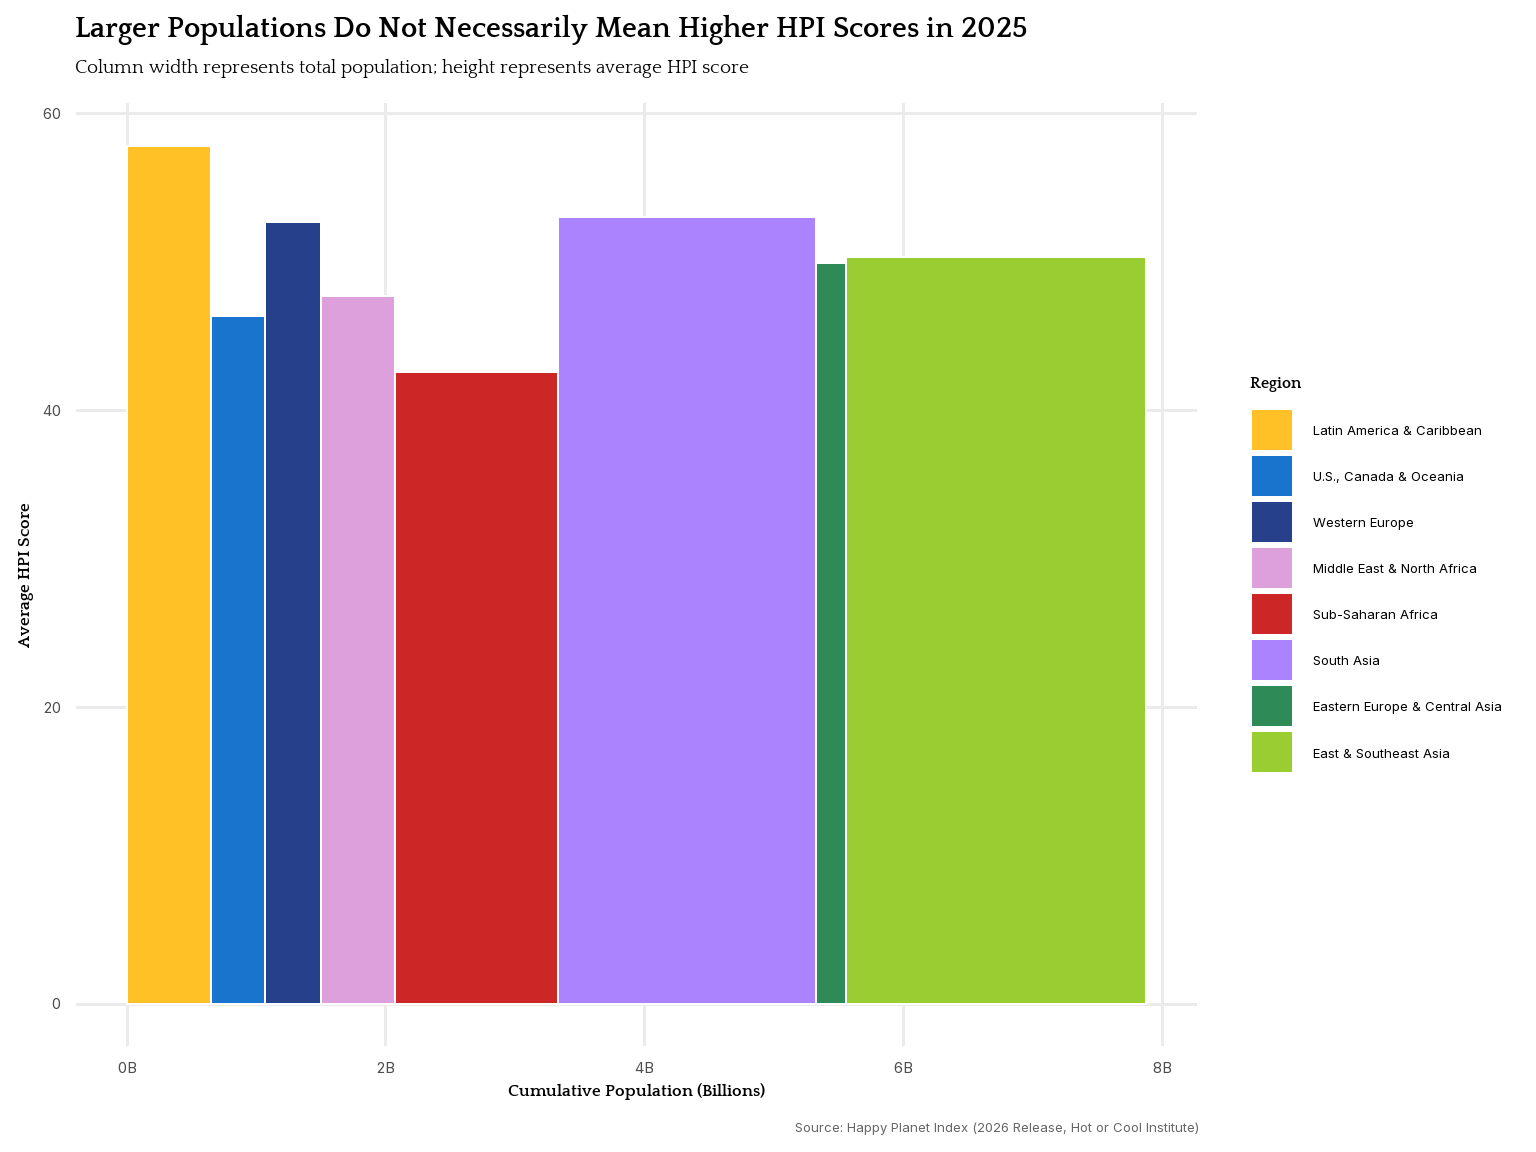
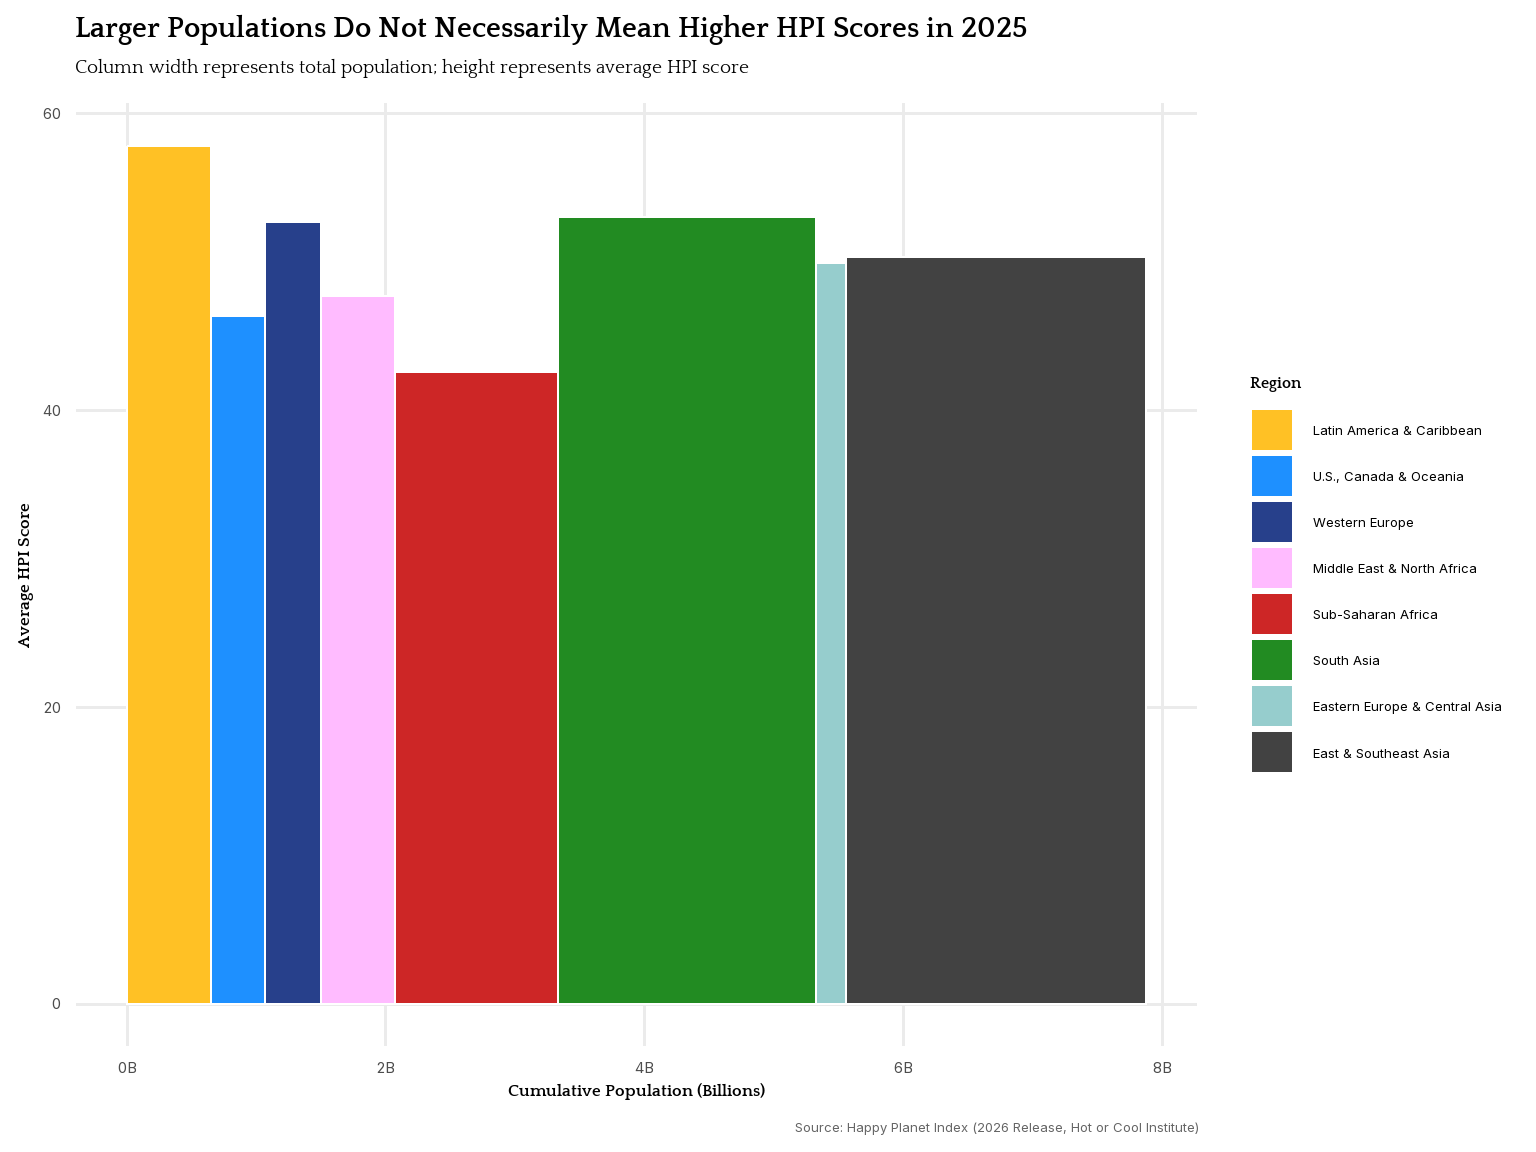
just changed colors

diff --git a/index.html b/index.html
@@ -195,23 +195,23 @@ Show R code
 <h2 class="anchored" data-anchor-id="chart-2-table-with-embedded-charts">Chart 2 — Table with Embedded Charts</h2>
 <div class="cell">
 <div class="cell-output-display">
-<div id="jyxaphsfdx" style="padding-left:0px;padding-right:0px;padding-top:10px;padding-bottom:10px;overflow-x:auto;overflow-y:auto;width:auto;height:auto;">
-<style>#jyxaphsfdx table {
+<div id="hizjpajzyr" style="padding-left:0px;padding-right:0px;padding-top:10px;padding-bottom:10px;overflow-x:auto;overflow-y:auto;width:auto;height:auto;">
+<style>#hizjpajzyr table {
   font-family: system-ui, 'Segoe UI', Roboto, Helvetica, Arial, sans-serif, 'Apple Color Emoji', 'Segoe UI Emoji', 'Segoe UI Symbol', 'Noto Color Emoji';
   -webkit-font-smoothing: antialiased;
   -moz-osx-font-smoothing: grayscale;
 }
 
-#jyxaphsfdx thead, #jyxaphsfdx tbody, #jyxaphsfdx tfoot, #jyxaphsfdx tr, #jyxaphsfdx td, #jyxaphsfdx th {
+#hizjpajzyr thead, #hizjpajzyr tbody, #hizjpajzyr tfoot, #hizjpajzyr tr, #hizjpajzyr td, #hizjpajzyr th {
   border-style: none;
 }
 
-#jyxaphsfdx p {
+#hizjpajzyr p {
   margin: 0;
   padding: 0;
 }
 
-#jyxaphsfdx .gt_table {
+#hizjpajzyr .gt_table {
   display: table;
   border-collapse: collapse;
   line-height: normal;
@@ -237,12 +237,12 @@ Show R code
   border-left-color: #D3D3D3;
 }
 
-#jyxaphsfdx .gt_caption {
+#hizjpajzyr .gt_caption {
   padding-top: 4px;
   padding-bottom: 4px;
 }
 
-#jyxaphsfdx .gt_title {
+#hizjpajzyr .gt_title {
   color: #333333;
   font-size: 125%;
   font-weight: initial;
@@ -254,7 +254,7 @@ Show R code
   border-bottom-width: 0;
 }
 
-#jyxaphsfdx .gt_subtitle {
+#hizjpajzyr .gt_subtitle {
   color: #333333;
   font-size: 85%;
   font-weight: initial;
@@ -266,7 +266,7 @@ Show R code
   border-top-width: 0;
 }
 
-#jyxaphsfdx .gt_heading {
+#hizjpajzyr .gt_heading {
   background-color: #FFFFFF;
   text-align: center;
   border-bottom-color: #FFFFFF;
@@ -278,13 +278,13 @@ Show R code
   border-right-color: #D3D3D3;
 }
 
-#jyxaphsfdx .gt_bottom_border {
+#hizjpajzyr .gt_bottom_border {
   border-bottom-style: solid;
   border-bottom-width: 2px;
   border-bottom-color: #D3D3D3;
 }
 
-#jyxaphsfdx .gt_col_headings {
+#hizjpajzyr .gt_col_headings {
   border-top-style: solid;
   border-top-width: 2px;
   border-top-color: #D3D3D3;
@@ -299,7 +299,7 @@ Show R code
   border-right-color: #D3D3D3;
 }
 
-#jyxaphsfdx .gt_col_heading {
+#hizjpajzyr .gt_col_heading {
   color: #333333;
   background-color: #FFFFFF;
   font-size: 100%;
@@ -319,7 +319,7 @@ Show R code
   overflow-x: hidden;
 }
 
-#jyxaphsfdx .gt_column_spanner_outer {
+#hizjpajzyr .gt_column_spanner_outer {
   color: #333333;
   background-color: #FFFFFF;
   font-size: 100%;
@@ -331,15 +331,15 @@ Show R code
   padding-right: 4px;
 }
 
-#jyxaphsfdx .gt_column_spanner_outer:first-child {
+#hizjpajzyr .gt_column_spanner_outer:first-child {
   padding-left: 0;
 }
 
-#jyxaphsfdx .gt_column_spanner_outer:last-child {
+#hizjpajzyr .gt_column_spanner_outer:last-child {
   padding-right: 0;
 }
 
-#jyxaphsfdx .gt_column_spanner {
+#hizjpajzyr .gt_column_spanner {
   border-bottom-style: solid;
   border-bottom-width: 2px;
   border-bottom-color: #D3D3D3;
@@ -351,11 +351,11 @@ Show R code
   width: 100%;
 }
 
-#jyxaphsfdx .gt_spanner_row {
+#hizjpajzyr .gt_spanner_row {
   border-bottom-style: hidden;
 }
 
-#jyxaphsfdx .gt_group_heading {
+#hizjpajzyr .gt_group_heading {
   padding-top: 8px;
   padding-bottom: 8px;
   padding-left: 5px;
@@ -381,7 +381,7 @@ Show R code
   text-align: left;
 }
 
-#jyxaphsfdx .gt_empty_group_heading {
+#hizjpajzyr .gt_empty_group_heading {
   padding: 0.5px;
   color: #333333;
   background-color: #FFFFFF;
@@ -396,15 +396,15 @@ Show R code
   vertical-align: middle;
 }
 
-#jyxaphsfdx .gt_from_md > :first-child {
+#hizjpajzyr .gt_from_md > :first-child {
   margin-top: 0;
 }
 
-#jyxaphsfdx .gt_from_md > :last-child {
+#hizjpajzyr .gt_from_md > :last-child {
   margin-bottom: 0;
 }
 
-#jyxaphsfdx .gt_row {
+#hizjpajzyr .gt_row {
   padding-top: 3px;
   padding-bottom: 3px;
   padding-left: 5px;
@@ -423,7 +423,7 @@ Show R code
   overflow-x: hidden;
 }
 
-#jyxaphsfdx .gt_stub {
+#hizjpajzyr .gt_stub {
   color: #333333;
   background-color: #FFFFFF;
   font-size: 100%;
@@ -436,7 +436,7 @@ Show R code
   padding-right: 5px;
 }
 
-#jyxaphsfdx .gt_stub_row_group {
+#hizjpajzyr .gt_stub_row_group {
   color: #333333;
   background-color: #FFFFFF;
   font-size: 100%;
@@ -450,15 +450,15 @@ Show R code
   vertical-align: top;
 }
 
-#jyxaphsfdx .gt_row_group_first td {
+#hizjpajzyr .gt_row_group_first td {
   border-top-width: 2px;
 }
 
-#jyxaphsfdx .gt_row_group_first th {
+#hizjpajzyr .gt_row_group_first th {
   border-top-width: 2px;
 }
 
-#jyxaphsfdx .gt_summary_row {
+#hizjpajzyr .gt_summary_row {
   color: #333333;
   background-color: #FFFFFF;
   text-transform: inherit;
@@ -468,16 +468,16 @@ Show R code
   padding-right: 5px;
 }
 
-#jyxaphsfdx .gt_first_summary_row {
+#hizjpajzyr .gt_first_summary_row {
   border-top-style: solid;
   border-top-color: #D3D3D3;
 }
 
-#jyxaphsfdx .gt_first_summary_row.thick {
+#hizjpajzyr .gt_first_summary_row.thick {
   border-top-width: 2px;
 }
 
-#jyxaphsfdx .gt_last_summary_row {
+#hizjpajzyr .gt_last_summary_row {
   padding-top: 8px;
   padding-bottom: 8px;
   padding-left: 5px;
@@ -487,7 +487,7 @@ Show R code
   border-bottom-color: #D3D3D3;
 }
 
-#jyxaphsfdx .gt_grand_summary_row {
+#hizjpajzyr .gt_grand_summary_row {
   color: #333333;
   background-color: #FFFFFF;
   text-transform: inherit;
@@ -497,7 +497,7 @@ Show R code
   padding-right: 5px;
 }
 
-#jyxaphsfdx .gt_first_grand_summary_row {
+#hizjpajzyr .gt_first_grand_summary_row {
   padding-top: 8px;
   padding-bottom: 8px;
   padding-left: 5px;
@@ -507,7 +507,7 @@ Show R code
   border-top-color: #D3D3D3;
 }
 
-#jyxaphsfdx .gt_last_grand_summary_row_top {
+#hizjpajzyr .gt_last_grand_summary_row_top {
   padding-top: 8px;
   padding-bottom: 8px;
   padding-left: 5px;
@@ -517,11 +517,11 @@ Show R code
   border-bottom-color: #D3D3D3;
 }
 
-#jyxaphsfdx .gt_striped {
+#hizjpajzyr .gt_striped {
   background-color: rgba(128, 128, 128, 0.05);
 }
 
-#jyxaphsfdx .gt_table_body {
+#hizjpajzyr .gt_table_body {
   border-top-style: solid;
   border-top-width: 2px;
   border-top-color: #D3D3D3;
@@ -530,7 +530,7 @@ Show R code
   border-bottom-color: #D3D3D3;
 }
 
-#jyxaphsfdx .gt_footnotes {
+#hizjpajzyr .gt_footnotes {
   color: #333333;
   background-color: #FFFFFF;
   border-bottom-style: none;
@@ -544,7 +544,7 @@ Show R code
   border-right-color: #D3D3D3;
 }
 
-#jyxaphsfdx .gt_footnote {
+#hizjpajzyr .gt_footnote {
   margin: 0px;
   font-size: 90%;
   padding-top: 4px;
@@ -553,7 +553,7 @@ Show R code
   padding-right: 5px;
 }
 
-#jyxaphsfdx .gt_sourcenotes {
+#hizjpajzyr .gt_sourcenotes {
   color: #333333;
   background-color: #FFFFFF;
   border-bottom-style: none;
@@ -567,7 +567,7 @@ Show R code
   border-right-color: #D3D3D3;
 }
 
-#jyxaphsfdx .gt_sourcenote {
+#hizjpajzyr .gt_sourcenote {
   font-size: 90%;
   padding-top: 4px;
   padding-bottom: 4px;
@@ -575,72 +575,72 @@ Show R code
   padding-right: 5px;
 }
 
-#jyxaphsfdx .gt_left {
+#hizjpajzyr .gt_left {
   text-align: left;
 }
 
-#jyxaphsfdx .gt_center {
+#hizjpajzyr .gt_center {
   text-align: center;
 }
 
-#jyxaphsfdx .gt_right {
+#hizjpajzyr .gt_right {
   text-align: right;
   font-variant-numeric: tabular-nums;
 }
 
-#jyxaphsfdx .gt_font_normal {
+#hizjpajzyr .gt_font_normal {
   font-weight: normal;
 }
 
-#jyxaphsfdx .gt_font_bold {
+#hizjpajzyr .gt_font_bold {
   font-weight: bold;
 }
 
-#jyxaphsfdx .gt_font_italic {
+#hizjpajzyr .gt_font_italic {
   font-style: italic;
 }
 
-#jyxaphsfdx .gt_super {
+#hizjpajzyr .gt_super {
   font-size: 65%;
 }
 
-#jyxaphsfdx .gt_footnote_marks {
+#hizjpajzyr .gt_footnote_marks {
   font-size: 75%;
   vertical-align: 0.4em;
   position: initial;
 }
 
-#jyxaphsfdx .gt_asterisk {
+#hizjpajzyr .gt_asterisk {
   font-size: 100%;
   vertical-align: 0;
 }
 
-#jyxaphsfdx .gt_indent_1 {
+#hizjpajzyr .gt_indent_1 {
   text-indent: 5px;
 }
 
-#jyxaphsfdx .gt_indent_2 {
+#hizjpajzyr .gt_indent_2 {
   text-indent: 10px;
 }
 
-#jyxaphsfdx .gt_indent_3 {
+#hizjpajzyr .gt_indent_3 {
   text-indent: 15px;
 }
 
-#jyxaphsfdx .gt_indent_4 {
+#hizjpajzyr .gt_indent_4 {
   text-indent: 20px;
 }
 
-#jyxaphsfdx .gt_indent_5 {
+#hizjpajzyr .gt_indent_5 {
   text-indent: 25px;
 }
 
-#jyxaphsfdx .katex-display {
+#hizjpajzyr .katex-display {
   display: inline-flex !important;
   margin-bottom: 0.75em !important;
 }
 
-#jyxaphsfdx div.Reactable > div.rt-table > div.rt-thead > div.rt-tr.rt-tr-group-header > div.rt-th-group:after {
+#hizjpajzyr div.Reactable > div.rt-table > div.rt-thead > div.rt-tr.rt-tr-group-header > div.rt-th-group:after {
   height: 0px !important;
 }
 </style>
